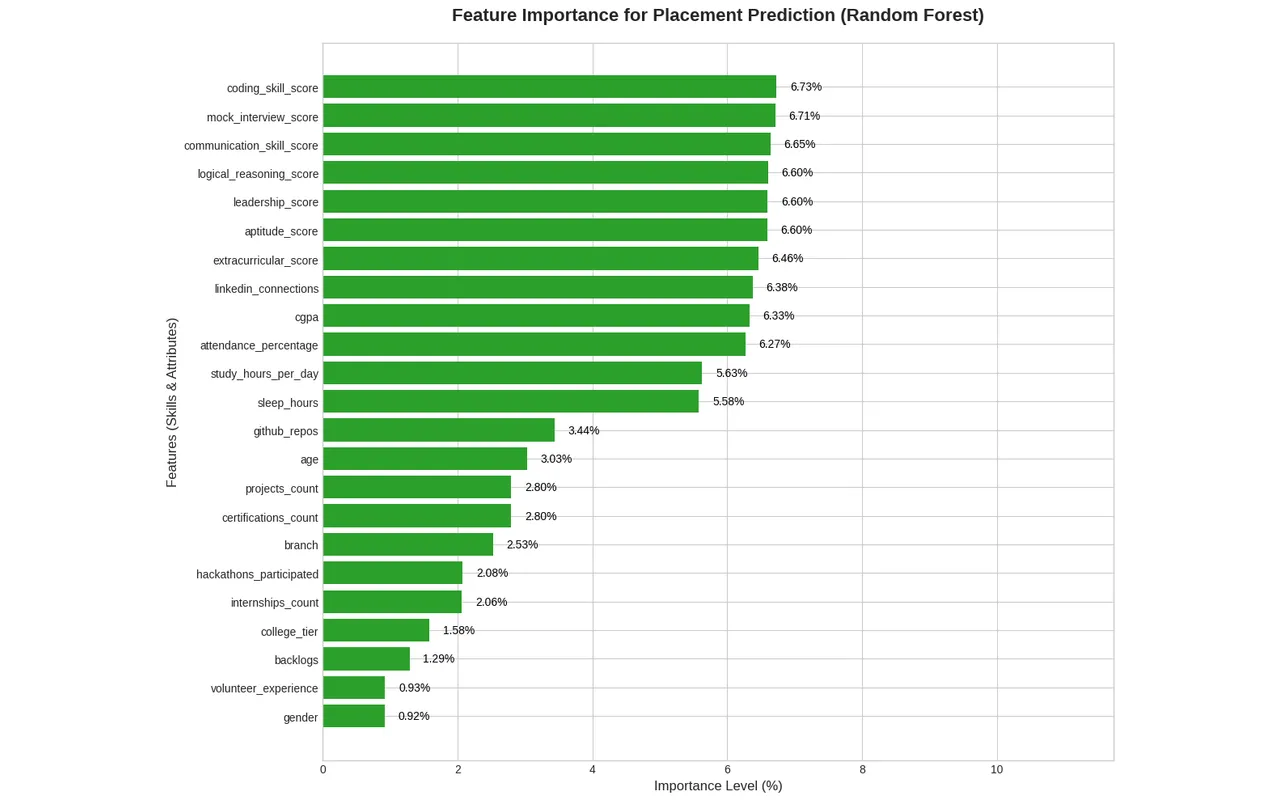
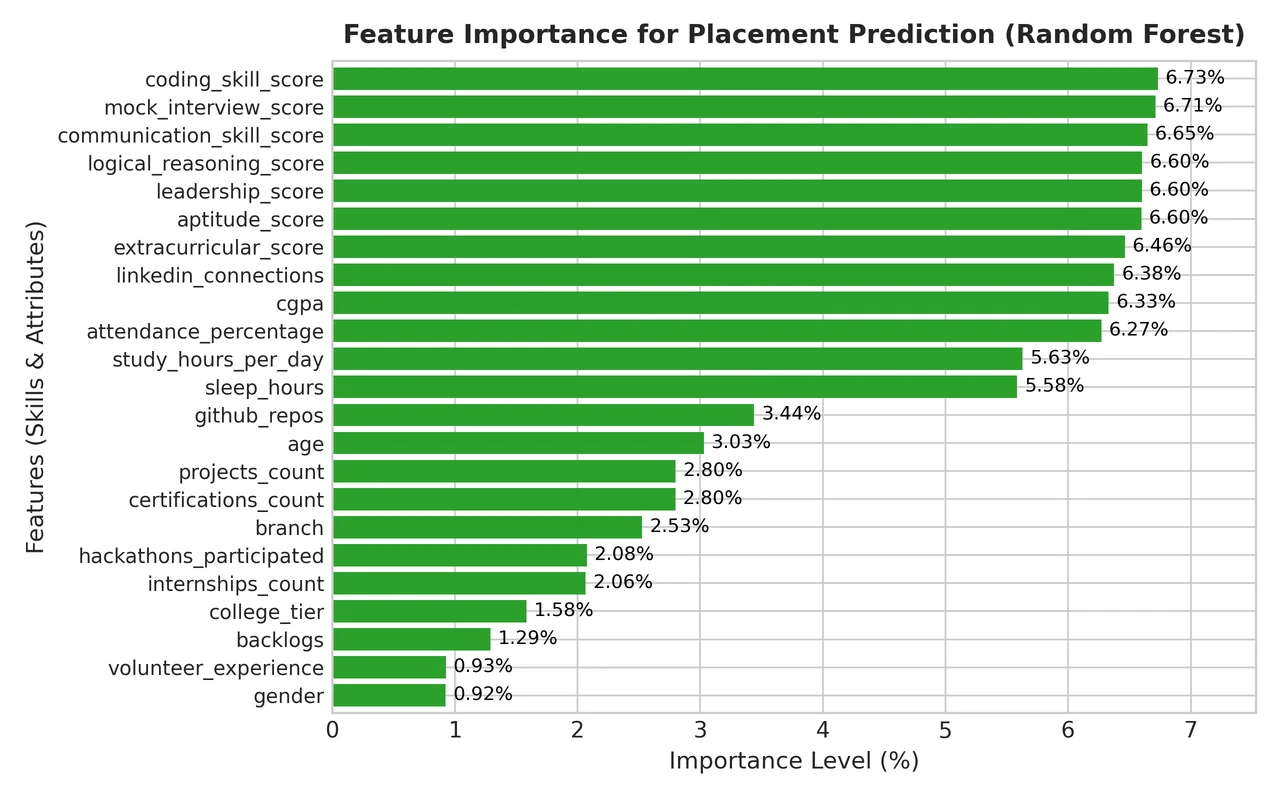
Return focus in Safari, fit narrow explore pages and re-export two charts
- Focus clicked links and buttons so dialogs can hand focus back in Safari
- Keep the focus ring for keyboard users when a dialog closes
- Stop the Prim and Employment Gap pages from scrolling sideways below 360px
- Re-export the Peak seasonality and feature importance charts at 16:10

diff --git a/src/main.tsx b/src/main.tsx
@@ -10,6 +10,22 @@ import App from "./App";
 import BrokenPage from "./components/BrokenPage";
 import ErrorBoundary from "./components/ErrorBoundary";
 
+// Safari ไม่ focus ลิงก์หรือปุ่มตอนคลิก dialog จึงไม่รู้ว่าต้องคืน focus ให้ตัวไหนตอนปิด (VoiceOver หลุดไปต้นหน้า) เบราว์เซอร์อื่น focus ให้แล้วจึงไม่เปลี่ยน
+document.addEventListener("click", (e) => {
+  if (e.target instanceof Element) e.target.closest<HTMLElement>("a[href], button")?.focus({ preventScroll: true });
+}, { capture: true });
+
+// Safari โชว์วง focus ทุกครั้งที่ dialog คืน focus แม้ปิดด้วยเมาส์หรือนิ้ว: วงมีไว้ให้คีย์บอร์ดเท่านั้น ต้อง blur ก่อน focus ซ้ำเฉย ๆ วงไม่หาย
+let byPointer = false;
+document.addEventListener("pointerdown", () => (byPointer = true), { capture: true });
+document.addEventListener("keydown", () => (byPointer = false), { capture: true });
+document.addEventListener("close", () => {
+  const el = document.activeElement;
+  if (!byPointer || !(el instanceof HTMLElement) || !el.matches(":focus-visible")) return;
+  el.blur();
+  el.focus({ preventScroll: true, focusVisible: false } as FocusOptions);
+}, { capture: true });
+
 createRoot(document.getElementById("root")!).render(
   <StrictMode>
     {/* LazyMotion + m.* โหลดแค่ feature ที่ใช้ (animation, hover/tap, inView) แทน motion.* ตัวเต็ม และโหลดทีหลังแบบ dynamic import

diff --git a/src/components/LabFigure.tsx b/src/components/LabFigure.tsx
@@ -280,7 +280,7 @@ function MstFigure({ figure }: { figure: Extract<ProjectLabFigure, { kind: "mst"
   const node = (id: number) => figure.nodes.find((n) => n.id === id)!;
 
   return (
-    <div className="grid gap-3">
+    <div className="grid grid-cols-[minmax(0,1fr)] gap-3">
       <FigureHeader caption={figure.caption}>
         <div role="group" aria-label="Algorithm step" className="flex items-center gap-1">
           <button type="button" disabled={step === 0} onClick={() => setStep((s) => s - 1)} className={SMALL_BTN}>
@@ -292,7 +292,7 @@ function MstFigure({ figure }: { figure: Extract<ProjectLabFigure, { kind: "mst"
         </div>
       </FigureHeader>
 
-      <div className="flex items-center justify-between gap-3 rounded-tag border border-rule bg-surface px-3 py-2">
+      <div className="flex flex-wrap items-center justify-between gap-3 rounded-tag border border-rule bg-surface px-3 py-2">
         <svg viewBox="0 0 190 96" aria-hidden="true" className="h-[5rem] w-40 shrink-0 overflow-visible">
           {figure.edges.map((e) => {
             const u = node(e.from);
@@ -328,7 +328,7 @@ function MstFigure({ figure }: { figure: Extract<ProjectLabFigure, { kind: "mst"
           })}
         </svg>
 
-        <div className="min-w-0 flex-1 text-right">
+        <div className="min-w-0 flex-auto text-right">
           <p className="type-caption text-ink-muted">Tree cost</p>
           <p className="mt-0.5 whitespace-nowrap type-title tabular-nums text-ink">
             {totalCost} {figure.unit}

diff --git a/src/components/ProjectPage.tsx b/src/components/ProjectPage.tsx
@@ -199,10 +199,10 @@ function ProjectArticle({ project }: { project: Project }) {
           </div>
         )}
 
-        <div className="mt-12 grid gap-12 lg:grid-cols-[minmax(0,1fr)_20rem] lg:gap-16">
+        <div className="mt-12 grid grid-cols-[minmax(0,1fr)] gap-12 lg:grid-cols-[minmax(0,1fr)_20rem] lg:gap-16">
           <IndexCard project={project} />
 
-          <div className="grid max-w-measure content-start gap-12 lg:col-start-1 lg:row-start-1">
+          <div className="grid max-w-measure grid-cols-[minmax(0,1fr)] content-start gap-12 lg:col-start-1 lg:row-start-1">
             {/* หัวข้อซ่อน: บัตรดัชนีมาก่อนใน DOM คนที่กระโดดตามหัวข้อจะข้ามเนื้อหาหลักไป My role ถ้าส่วนนี้ไม่มีหัวข้อ */}
             <section className="grid gap-8">
               <h2 className="sr-only">Overview</h2>
